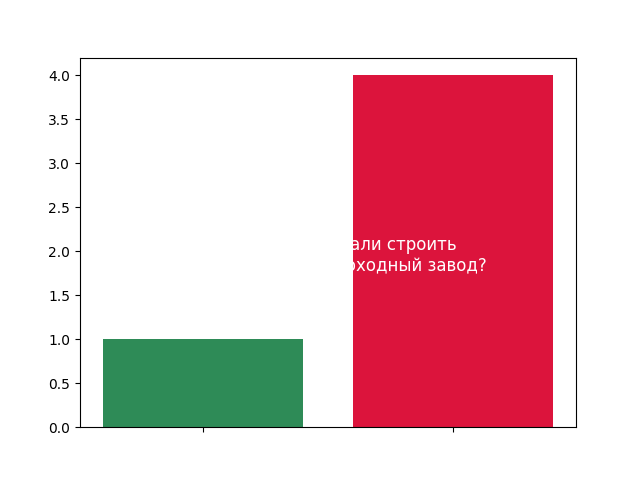
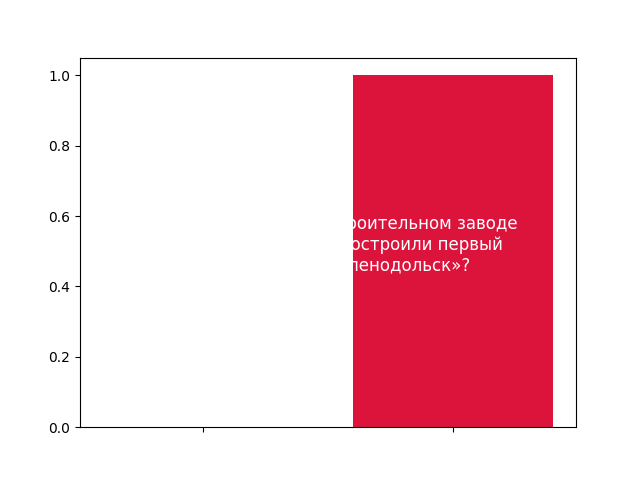
charts regenerate with Celery each 1 min

diff --git a/magicflot/static/js/the_game.js b/magicflot/static/js/the_game.js
@@ -28,7 +28,9 @@ window.addEventListener('beforeunload', async (event) => {
   } catch (error) {
     console.error("Error saving game session data:", error);
   }
+
 });
+
 
 
 function showDetails(event){

diff --git a/celery.py b/celery.py
@@ -1,0 +1,21 @@
+from celery import Celery
+from .stat import load_game_sessions, generate_pie_chart, generate_easy, generate_hard
+
+app = Celery('HelloDjango')
+app.config_from_object('django.conf:settings', namespace='CELERY')
+app.autodiscover_tasks()
+
+@app.task
+def update_charts():
+    game_sessions = load_game_sessions()
+    generate_pie_chart(game_sessions)
+    generate_easy(game_sessions)
+    generate_hard(game_sessions)
+
+# Schedule the task to run every minute
+app.conf.beat_schedule = {
+    'update-charts-every-minute': {
+        'task': 'path.to.update_charts',
+        'schedule': 60.0,  # 60 seconds = 1 minute
+    },
+}
